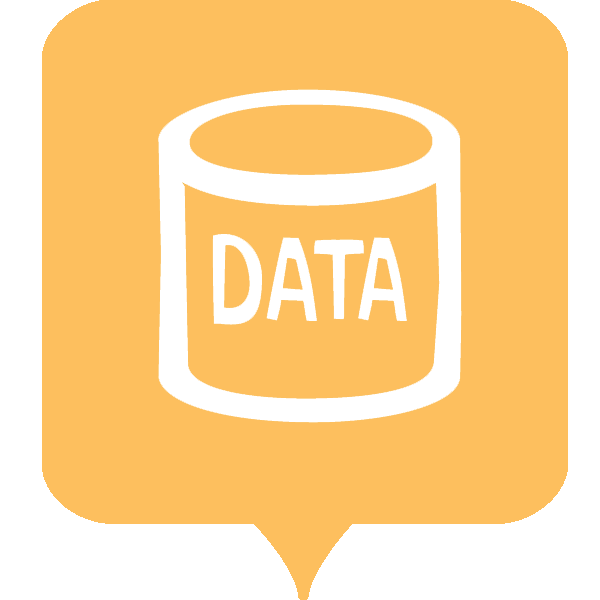
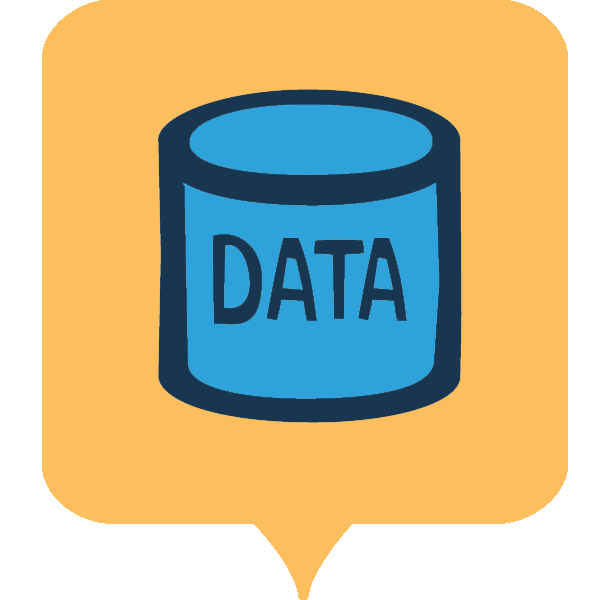
slidelar eklendi
bitdefender ve planet press

Changed region(s): [[0.24, 0.15, 0.78, 0.72]]

diff --git a/PlanetPress.html b/PlanetPress.html
@@ -85,7 +85,7 @@ height="0" width="0" style="display:none;visibility:hidden"></iframe></noscript>
         <div class="full-container">
 
             <!-- #home-slider -->
-            <div class="page-image" style="background-image:url(assets/img/planet-press.png); height: 200px">
+            <div class="page-image" style="background-image:url(assets/img/planetpress-slide.jpg); height: 200px">
                 <div class="container">
                     <div class="table-cell">
                         <div class="page-title">

diff --git a/Bitdefender.html b/Bitdefender.html
@@ -85,7 +85,7 @@ height="0" width="0" style="display:none;visibility:hidden"></iframe></noscript>
         <div class="full-container">
 
             <!-- #home-slider -->
-            <div class="page-image" style="background-image:url(assets/img/servisler.png); height: 200px">
+            <div class="page-image" style="background-image:url(assets/img/bitdefender-slide.jpg); height: 200px">
                 <div class="container">
                     <div class="table-cell">
                         <div class="page-title">
